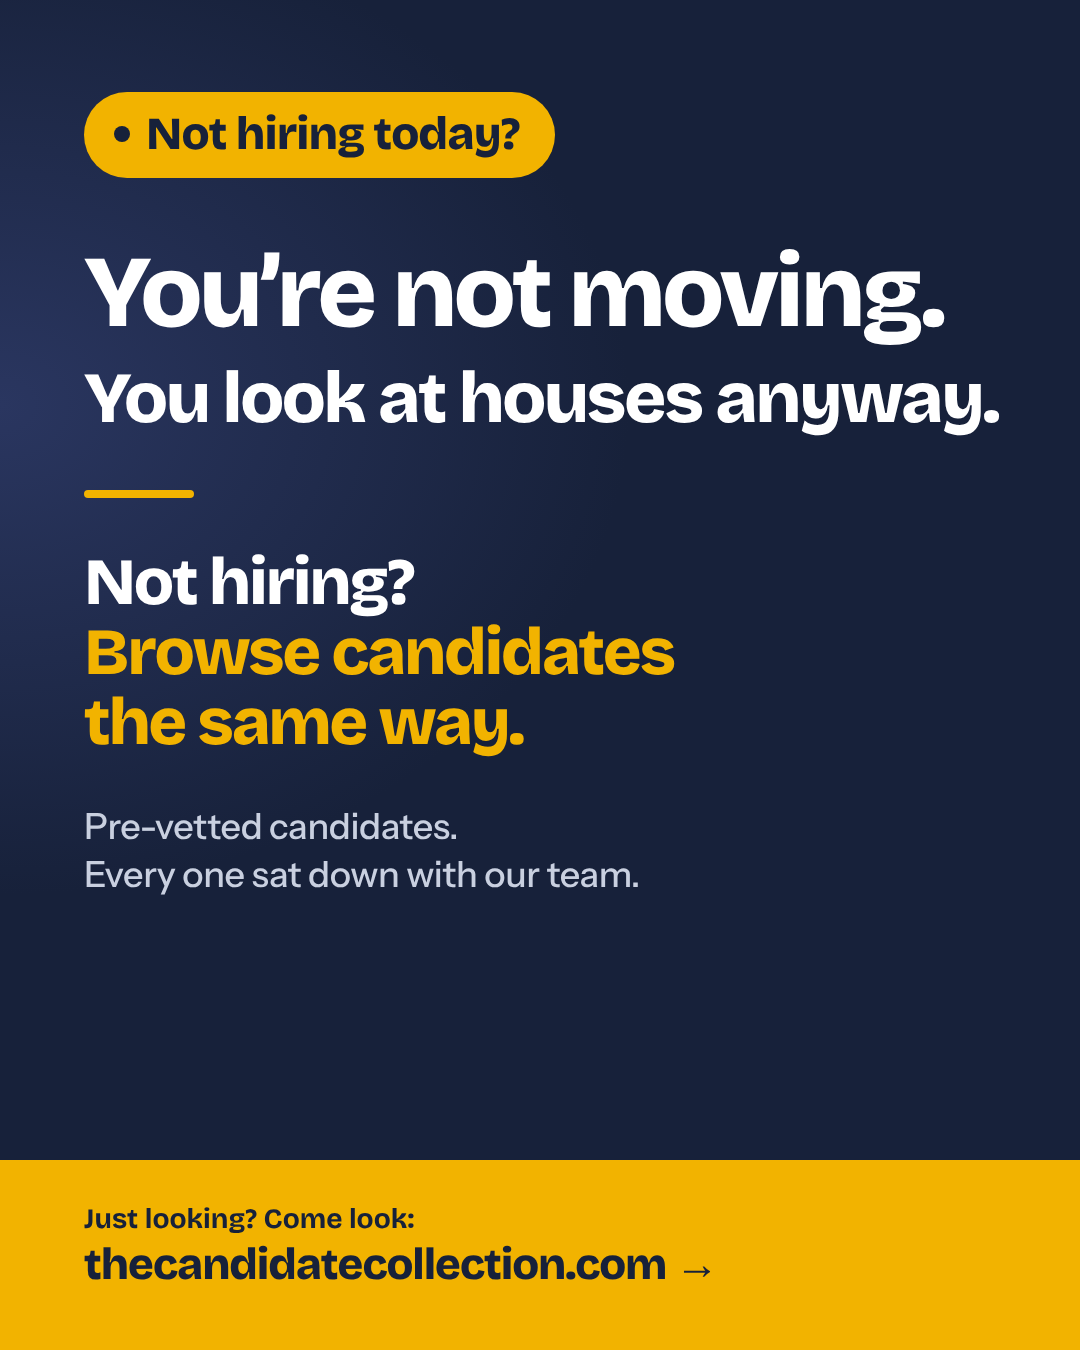
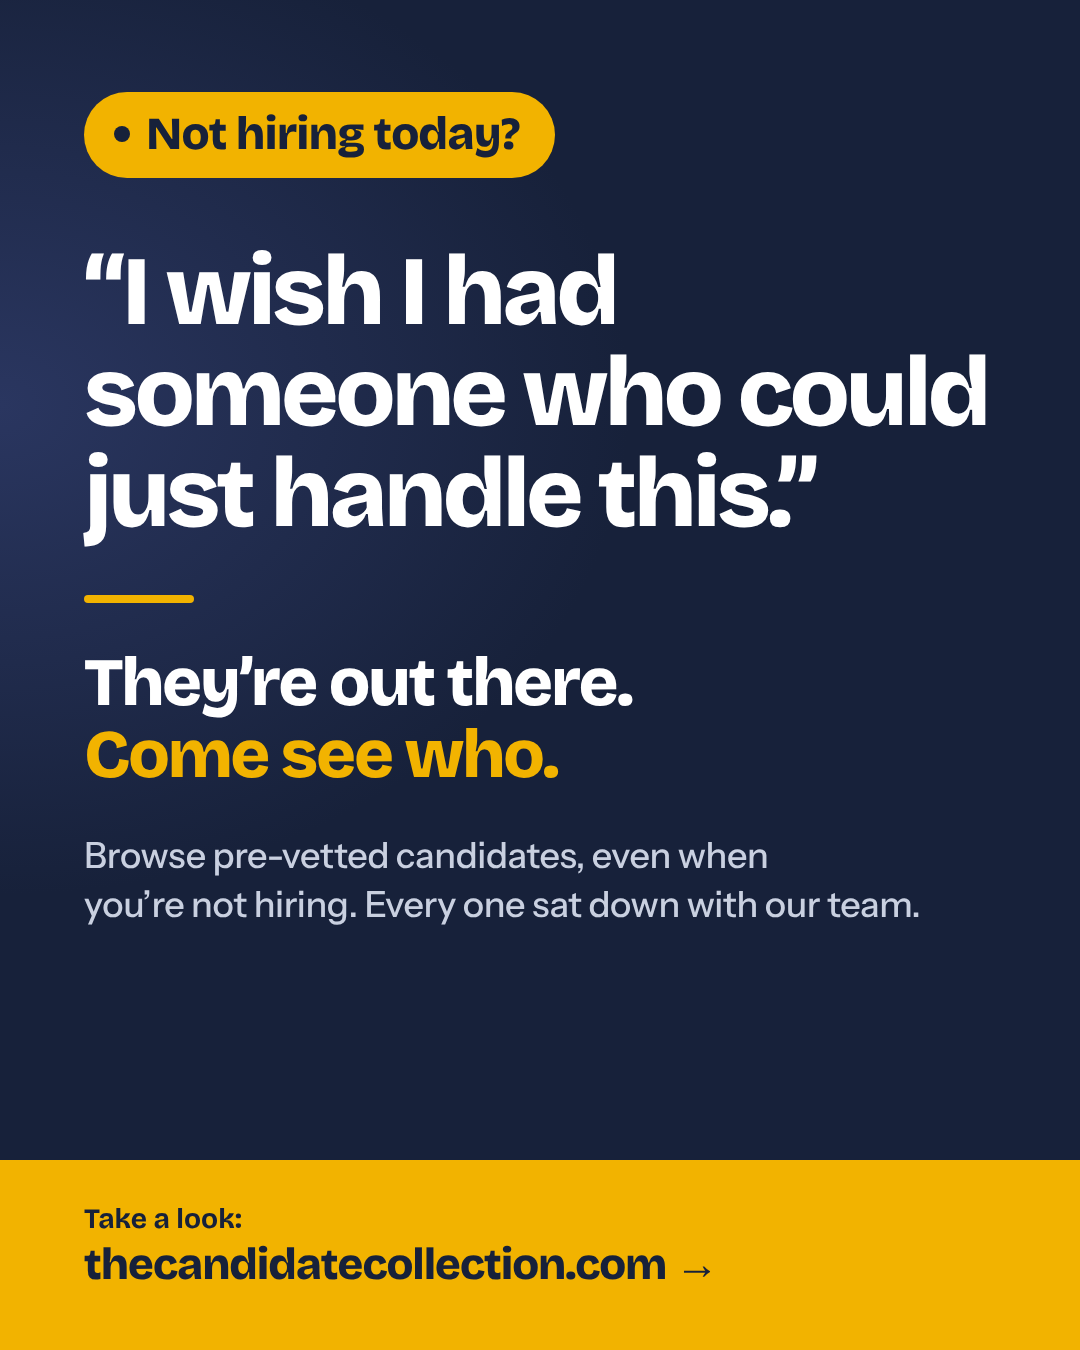
Just looking: told from the owner's day; houses reduced to a footnote
Claude-Session: https://claude.ai/code/session_01EZeEyNzeQFPN4DFsUvzuMe

Changed region(s): [[0.0611, 0.1867, 0.9167, 0.6844], [0.0917, 0.8711, 0.3667, 0.9333]]

diff --git a/src/app/just-looking/page.tsx b/src/app/just-looking/page.tsx
@@ -10,8 +10,8 @@ import styles from "./looking.module.css";
 export const dynamic = "force-dynamic";
 
 export const metadata: Metadata = {
-  title: "Just looking?",
-  description: "You're not moving, and you look at houses anyway. Browse pre-vetted candidates the same way, hiring or not.",
+  title: "Not hiring today? See who's out there",
+  description: "Every day you think, I wish I had someone who could handle this. See who's out there, even when you're not hiring.",
 };
 
 // For the owner who likes to look. A short story, then real people to scroll.
@@ -24,39 +24,49 @@ export default async function JustLookingPage() {
     <div className={styles.page}>
       <Seen step="just_looking" />
       <section className={`wrap ${styles.story}`}>
-        <p className={styles.label}>Just looking?</p>
+        <p className={styles.label}>Not hiring today?</p>
         <h1>
-          You&rsquo;re not moving. <span>You look at houses anyway.</span>
+          &ldquo;I wish I had someone who could just handle this.&rdquo; <span>How many times did you say it this week?</span>
         </h1>
 
-        <p>It&rsquo;s late. The house is quiet. And you&rsquo;re on your phone, three towns over, standing in a kitchen you will never cook in.</p>
-        <p>You&rsquo;re not buying. You&rsquo;re just looking.</p>
-        <p className={styles.beat}>Then one stops your thumb.</p>
+        <p>The invoices that sat another week. The customer nobody called back. The schedule that only lives in your head.</p>
+        <p>The thing you did yourself at ten at night, because explaining it would have taken longer.</p>
         <p>
-          The porch. The light in that kitchen. A minute ago you weren&rsquo;t in the market, and now you&rsquo;re holding
-          out your phone: <em>look at this one.</em>
+          Every day in a business has one of those moments. You think, <em>I wish I had someone.</em> Then the phone
+          rings, and the thought is gone.
         </p>
-        <p>That little jolt is the whole reason we scroll.</p>
+        <p>You&rsquo;re not hiring. There&rsquo;s no opening and no job description. So the thought never turns into anything.</p>
 
-        <h2>We built that, for hiring.</h2>
+        <h2>So don&rsquo;t hire. Just look.</h2>
 
-        <p>A collection of people instead of houses. Every one of them sat down with our team before they went up.</p>
-        <p>Scroll through them tonight. Nobody calls you. Nobody knows you looked.</p>
-        <p>Stop on the one who catches you. Read what they&rsquo;re great at. Tap the heart. Sleep on it.</p>
-        <p>Most nights, that&rsquo;s all it is. A good scroll.</p>
+        <p>Open the collection for a few minutes, here and there, the way you&rsquo;d check anything else on your phone.</p>
+        <p>
+          Read what each person is great at. The one who loves the details. The one who keeps a whole office moving.
+          The one who picks up the phone and follows through.
+        </p>
+        <p>There&rsquo;s a quiet relief in it. The people who could help you are out there, and now you can see them.</p>
+        <p className={styles.beat}>And then one day it clicks.</p>
+        <p>
+          Something goes sideways at two in the afternoon, and you think of a person you scrolled past last week.{" "}
+          <em>That&rsquo;s who I needed today.</em>
+        </p>
         <p className={styles.beat}>
-          And then one night you find the one you&rsquo;re looking for. <span>Or the one you didn&rsquo;t know you needed.</span>
+          Now you know who you&rsquo;re looking for. <span>Or you&rsquo;ve found the one you didn&rsquo;t know you needed.</span>
         </p>
 
         <Link href="/candidates" className="btn btn-gold btn-big">
-          Start scrolling
+          See who&rsquo;s out there
         </Link>
+        <p className={styles.aside}>
+          It&rsquo;s the same reason people look at houses they aren&rsquo;t buying. You don&rsquo;t always know
+          what&rsquo;s missing until you see it.
+        </p>
       </section>
 
       {newest.length > 0 && (
         <section className={styles.feed}>
           <div className="wrap">
-            <h2>Go ahead. Here are the newest.</h2>
+            <h2>Start here. The newest in the collection.</h2>
             <div className="cards">
               {newest.map((c) => (
                 <CandidateCard key={c.id} c={c} fee={feeFor(c, tiers)} href={`/candidates/${c.id}`} store interviewing={busy.has(c.id)} />
@@ -64,7 +74,7 @@ export default async function JustLookingPage() {
             </div>
             <div className={styles.more}>
               <Link href="/candidates" className="btn btn-big">
-                Keep scrolling
+                See them all
               </Link>
               <p>One flat fee, only if you hire. Never a percentage of salary.</p>
             </div>

diff --git a/src/app/just-looking/looking.module.css b/src/app/just-looking/looking.module.css
@@ -1,8 +1,8 @@
 .page { background: var(--ink); }
 .story { max-width: 760px; color: #fff; padding-top: clamp(48px, 8vw, 96px); padding-bottom: clamp(56px, 8vw, 100px); }
 .label { display: inline-block; margin: 0 0 24px; padding: 7px 18px 8px; border-radius: 999px; background: var(--marigold); color: var(--ink); font-family: var(--display); font-weight: 800; font-size: clamp(17px, 2vw, 21px); }
-.story h1 { font-size: clamp(40px, 7vw, 76px); line-height: 1.02; letter-spacing: -0.035em; margin: 0 0 clamp(36px, 5vw, 56px); }
-.story h1 span { display: block; color: var(--marigold); }
+.story h1 { font-size: clamp(34px, 5.6vw, 62px); line-height: 1.02; letter-spacing: -0.035em; margin: 0 0 clamp(36px, 5vw, 56px); }
+.story h1 span { display: block; color: var(--marigold); font-size: 0.62em; line-height: 1.15; margin-top: 0.5em; letter-spacing: -0.02em; }
 .story p { margin: 0 0 1.25em; font-size: clamp(20px, 2.5vw, 26px); line-height: 1.5; color: rgba(255, 255, 255, 0.82); max-width: 30em; }
 .story em { font-style: italic; color: #fff; }
 .story p.beat { font-family: var(--display); font-weight: 800; font-size: clamp(27px, 3.8vw, 40px); line-height: 1.15; letter-spacing: -0.02em; color: #fff; margin: 1.3em 0 1em; }
@@ -14,3 +14,4 @@
 .feed h2 { font-size: clamp(26px, 3.6vw, 38px); margin: 0 0 24px; }
 .more { text-align: center; margin-top: 32px; }
 .more p { margin: 16px 0 0; font-size: 15px; color: var(--ink-3); }
+.story p.aside { margin: 44px 0 0; padding-top: 22px; border-top: 1px solid rgba(255, 255, 255, 0.16); font-size: 16.5px; line-height: 1.55; color: rgba(255, 255, 255, 0.6); }

diff --git a/design/posters/browse-anyway.html b/design/posters/browse-anyway.html
@@ -19,9 +19,9 @@ h2 span{color:#f2b300;display:block}.bar{width:110px;height:8px;border-radius:4p
 .card .t{margin-top:26px;font-family:B;font-weight:800;font-size:25px;color:#3f7d4e;letter-spacing:.02em}
 </style><body class="p"><div class="in">
 <span class="pill"><i></i>Not hiring today?</span>
-<h1 style="font-size:102px;margin-top:64px">You&rsquo;re not moving.<span style="display:block;font-size:72px;margin-top:18px;white-space:nowrap;letter-spacing:-.035em">You look at houses anyway.</span></h1>
-<div class="bar" style="margin:56px 0 50px"></div>
-<h2 style="font-size:66px;color:#fff">Not hiring? <span>Browse candidates<br>the same way.</span></h2>
-<p class="s" style="font-size:36px;margin-top:44px">Pre-vetted candidates.<br>Every one sat down with our team.</p>
+<h1 style="font-size:98px;margin-top:64px;line-height:1.03">&ldquo;I wish I had someone who could just handle this.&rdquo;</h1>
+<div class="bar" style="margin:50px 0 44px"></div>
+<h2 style="font-size:68px;color:#fff">They&rsquo;re out there. <span>Come see who.</span></h2>
+<p class="s" style="font-size:36px;margin-top:40px">Browse pre-vetted candidates, even when<br>you&rsquo;re not hiring. Every one sat down with our team.</p>
 </div>
-<div class="band"><div class="a">Just looking? Come look:</div><div class="b">thecandidatecollection.com →</div></div>
+<div class="band"><div class="a">Take a look:</div><div class="b">thecandidatecollection.com →</div></div>

diff --git a/src/lib/shareKit.ts b/src/lib/shareKit.ts
@@ -63,7 +63,7 @@ export function ownerKits(ref?: string | null): Kit[] {
       tag: "New",
       about: "For owners who aren't hiring today but like to look. Opens the page that explains why.",
       image: "/share/owner-browse-anyway.png",
-      message: `You're not moving. You look at houses anyway.\n\nNot hiring? Browse candidates the same way.\n\nPre-vetted candidates. Every one sat down with our team.\n\nTake a look: ${siteUrl()}/just-looking${ref ? `?r=${refSlug(ref)}` : ""}`,
+      message: `\"I wish I had someone who could just handle this.\"\n\nNot hiring today? See who's out there anyway.\n\nPre-vetted candidates. Every one sat down with our team.\n\nTake a look: ${siteUrl()}/just-looking${ref ? `?r=${refSlug(ref)}` : ""}`,
       link: `${siteUrl()}/just-looking${ref ? `?r=${refSlug(ref)}` : ""}`,
     },
     { id: "half-hour", name: "Half an hour", tag: "Shloimy recommends", about: "The promise: a candidate to consider in half an hour.", image: "/share/owner-teaser.png", message: ownerTeaser(ref), link },
